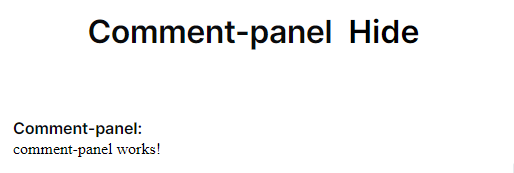
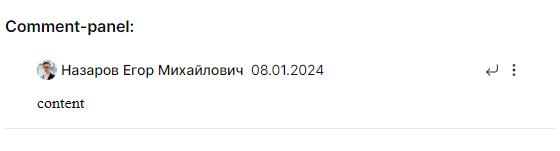
add: comment-panel.comp structure, _btn props

diff --git a/src/styles/components/_button.scss b/src/styles/components/_button.scss
@@ -95,13 +95,13 @@ $text-selectors: '&, span';
 .btn {
 	@include btn;
 
-  &:disabled {
-    background-color: transparent;
-    cursor: not-allowed;
-    border: none;
+	&:disabled {
+		background-color: transparent;
+		cursor: not-allowed;
+		border: none;
 
-    @include btn-color(var(--bti-quaternary));
-  }
+		@include btn-color(var(--bti-quaternary));
+	}
 	--btn-xl-icon-size: 20px;
 	--btn-l-icon-size: 20px;
 	--btn-m-icon-size: 20px;
@@ -110,17 +110,17 @@ $text-selectors: '&, span';
 	&_filled-primary {
 		background: var(--mc-default);
 		font-weight: var(--fw-medium);
-    @include btn-color(var(--wti-primary));
+		@include btn-color(var(--wti-primary));
 
 		&:not(:disabled) {
-      &:hover {
-        background: var(--mc-hover);
-      }
+			&:hover {
+				background: var(--mc-hover);
+			}
 
-      &:active {
-        background: var(--mc-active);
-      }
-    }
+			&:active {
+				background: var(--mc-active);
+			}
+		}
 
 		&:disabled {
 			background: var(--wgr-tertiary);
@@ -130,17 +130,17 @@ $text-selectors: '&, span';
 	&_filled-accent {
 		background: var(--ac-default);
 		font-weight: var(--fw-medium);
-    @include btn-color(var(--wti-primary));
+		@include btn-color(var(--wti-primary));
 
 		&:not(:disabled) {
-      &:hover {
-        background: var(--ac-hover);
-      }
+			&:hover {
+				background: var(--ac-hover);
+			}
 
-      &:active {
-        background: var(--ac-active);
-      }
-    }
+			&:active {
+				background: var(--ac-active);
+			}
+		}
 
 		&:disabled {
 			background: var(--wgr-tertiary);
@@ -149,17 +149,17 @@ $text-selectors: '&, span';
 
 	&_filled-secondary {
 		background: var(--wgr-secondary);
-    @include btn-color(var(--bti-secondary));
+		@include btn-color(var(--bti-secondary));
 
 		&:not(:disabled) {
-      &:hover {
-        border: 1px solid var(--wgr-tertiary);
-        background: var(--wgr-secondary);
-      }
+			&:hover {
+				border: 1px solid var(--wgr-tertiary);
+				background: var(--wgr-secondary);
+			}
 
-      &:active {
-        background: var(--wgr-tertiary);
-      }
+			&:active {
+				background: var(--wgr-tertiary);
+			}
 		}
 
 		&:disabled {
@@ -169,17 +169,17 @@ $text-selectors: '&, span';
 
 	&_floating {
 		background: var(--wgr-primary);
-    @include btn-color(var(--bti-secondary));
+		@include btn-color(var(--bti-secondary));
 
 		&:not(:disabled) {
-      &:hover {
-        box-shadow: var(--custom-floating-shadow);
-      }
+			&:hover {
+				box-shadow: var(--custom-floating-shadow);
+			}
 
-      &:active {
-        background: var(--wgr-secondary);
-        box-shadow: var(--custom-floating-shadow);
-      }
+			&:active {
+				background: var(--wgr-secondary);
+				box-shadow: var(--custom-floating-shadow);
+			}
 		}
 
 		&:disabled {
@@ -191,17 +191,17 @@ $text-selectors: '&, span';
 	&_outline-primary {
 		background: var(--wgr-primary);
 		border: 1px solid var(--mc-default);
-    @include btn-color(var(--mc-default));
+		@include btn-color(var(--mc-default));
 
 		&:not(:disabled) {
-      &:hover {
-        background-color: var(--mc-quinary);
-      }
+			&:hover {
+				background-color: var(--mc-quinary);
+			}
 
-      &:active {
-        background: var(--mc-quaternary);
-      }
-    }
+			&:active {
+				background: var(--mc-quaternary);
+			}
+		}
 
 		&:disabled {
 			background: var(--wgr-tertiary);
@@ -212,17 +212,17 @@ $text-selectors: '&, span';
 		border: 1px solid var(--ac-default);
 		font-weight: var(--fw-medium);
 
-    @include btn-color(var(--ac-default));
+		@include btn-color(var(--ac-default));
 
 		&:not(:disabled) {
-      &:hover {
-        background-color: var(--ac-hover);
-      }
+			&:hover {
+				background-color: var(--ac-hover);
+			}
 
-      &:active {
-        background: var(--ac-active);
-      }
-    }
+			&:active {
+				background: var(--ac-active);
+			}
+		}
 
 		&:disabled {
 			background: var(--wgr-secondary);
@@ -235,43 +235,43 @@ $text-selectors: '&, span';
 		@include btn-color(var(--mc-default));
 
 		&:not(:disabled) {
-      &:hover {
-        @include btn-color(var(--mc-hover));
-      }
+			&:hover {
+				@include btn-color(var(--mc-hover));
+			}
 
-      &:active {
-        @include btn-color(var(--mc-active));
-      }
-    }
+			&:active {
+				@include btn-color(var(--mc-active));
+			}
+		}
 	}
 
 	&_ghost-secondary {
 		@include btn-color(var(--bti-secondary));
 
 		&:not(:disabled) {
-      &:hover {
-        @include btn-color(var(--bti-tertiary));
-      }
+			&:hover {
+				@include btn-color(var(--bti-tertiary));
+			}
 
-      &:active {
-        @include btn-color(var(--bti-primary));
-      }
-    }
+			&:active {
+				@include btn-color(var(--bti-primary));
+			}
+		}
 	}
 
-  &_ghost-alert {
-    @include btn-color(var(--alc-default));
+	&_ghost-alert {
+		@include btn-color(var(--alc-default));
 
-    &:not(:disabled) {
-      &:hover {
-        @include btn-color(var(--alc-hover));
-      }
+		&:not(:disabled) {
+			&:hover {
+				@include btn-color(var(--alc-hover));
+			}
 
-      &:active {
-        @include btn-color(var(--alc-active));
-      }
-    }
-  }
+			&:active {
+				@include btn-color(var(--alc-active));
+			}
+		}
+	}
 
 	&_xl {
 		@include text-l;
@@ -295,5 +295,9 @@ $text-selectors: '&, span';
 		@include text-s;
 		padding: 8px 12px;
 		@include btn-s;
+	}
+
+	&.btn_paddingOff {
+		padding: 0;
 	}
 }

diff --git a/src/app/shared/ui-kit/comment-panel/comment-panel.component.html b/src/app/shared/ui-kit/comment-panel/comment-panel.component.html
@@ -1,1 +1,36 @@
-<p>comment-panel works!</p>
+<div class="comment-panel flex flex_column">
+	<div *ngIf="showHead" class="header flex flex_column">
+		<div class="flex flex_align-center">
+			<div class="flex gap-4 flex_grow">
+				<ng-container *ngIf="showAvatar">
+					<mib-avatar
+						type="round"
+						[showArrow]="false"
+						[src]="getUserAvatar"
+						[showImage]="true"
+					></mib-avatar>
+				</ng-container>
+				<span class="text name text_m text_medium c-bti-primary">
+					{{ user?.Name ?? 'Отсутствует' }} 
+				</span>
+				<span class="text name text_m c-bti-primary">
+					{{ user?.Date | date : 'dd.MM.YYYY' }} 
+				</span>
+			</div>
+			<div *ngIf="showActions" class="flex gap-4">
+				<mib-button paddingOff="true" size="s" type="ghost-secondary">
+					<mib-icon
+						btn-icon
+						class="stroke"
+						name="fi_corner-down-left"
+					></mib-icon>
+				</mib-button>
+				<mib-button paddingOff="true" size="s" type="ghost-secondary">
+					<mib-icon class="stroke" btn-icon name="fi_more-vertical"></mib-icon>
+				</mib-button>
+			</div>
+		</div>
+		<mib-spacing type="xs2"></mib-spacing>
+	</div>
+	<div class="body flex flex_column">content</div>
+</div>

diff --git a/src/app/shared/ui-kit/comment-panel/comment-panel.component.ts b/src/app/shared/ui-kit/comment-panel/comment-panel.component.ts
@@ -1,10 +1,28 @@
-import { Component } from '@angular/core';
+import {Component, Input} from '@angular/core'
 
 @Component({
-  selector: 'mib-comment-panel',
-  templateUrl: './comment-panel.component.html',
-  styleUrls: ['./comment-panel.component.scss']
+	selector: 'mib-comment-panel',
+	templateUrl: './comment-panel.component.html',
+	styleUrls: ['./comment-panel.component.scss']
 })
 export class CommentPanelComponent {
+	@Input() textExtention: boolean = false
+	@Input() extracted: boolean = false
+	@Input() showActions: boolean = true
+	@Input() showText: boolean = true
+	@Input() showLink: boolean = true
+	@Input() showAttached: boolean = true
+	@Input() file: boolean = true
+	@Input() showTitle: boolean = true
+	@Input() showAvatar: boolean = true
+	@Input() showHead: boolean = true
 
+	Avatar = './assets/images/user-avatar.jpg'
+	user = {Name: 'Назаров Егор Михайлович', Date: '2024-01-08T09:03:06.693Z'}
+
+	get getUserAvatar() {
+		console.log('Avatar :>> ', this.Avatar)
+		console.log('user.Name :>> ', this.user.Name)
+		return this.Avatar
+	}
 }

diff --git a/src/app/shared/ui-kit/comment-panel/comment-panel.module.ts b/src/app/shared/ui-kit/comment-panel/comment-panel.module.ts
@@ -1,10 +1,14 @@
 import {NgModule} from '@angular/core'
 import {CommonModule} from '@angular/common'
 import {CommentPanelComponent} from './comment-panel.component'
+import {AvatarModule} from '../avatar/avatar.module'
+import {ButtonModule} from '../button/button.module'
+import {IconModule} from '../ref-icon/icon.module'
+import {SpacingModule} from '../spacing/spacing.module'
 
 @NgModule({
 	declarations: [CommentPanelComponent],
 	exports: [CommentPanelComponent],
-	imports: [CommonModule]
+	imports: [CommonModule, AvatarModule, ButtonModule, IconModule, SpacingModule]
 })
 export class CommentPanelModule {}

diff --git a/src/app/shared/ui-kit/button/button.component.ts b/src/app/shared/ui-kit/button/button.component.ts
@@ -7,7 +7,7 @@ import {
 	Input,
 	Output
 } from '@angular/core'
-import { ButtonSize, ButtonType } from './interfaces/button.interface'
+import {ButtonSize, ButtonType} from './interfaces/button.interface'
 
 @Component({
 	selector: 'mib-button',
@@ -20,6 +20,7 @@ export class ButtonComponent implements AfterViewInit, DoCheck {
 	@Input() rounded: boolean = false
 	@Input() loading: boolean = false
 	@Input() disabled: boolean = false
+	@Input() paddingOff: boolean = false
 	@Output() press: EventEmitter<any> = new EventEmitter<any>()
 
 	constructor(private cdr: ChangeDetectorRef) {}

diff --git a/src/styles/components/_comment-panel.scss b/src/styles/components/_comment-panel.scss
@@ -1,0 +1,16 @@
+@import 'src/styles/helpers/icon_tools';
+@import 'src/styles/typography.vars';
+
+.comment-panel {
+	display: flex;
+	padding: 16px 32px;
+	flex-direction: column;
+	align-items: flex-start;
+	border-bottom: 1px solid var(--Gradation-Tertiary, #e2e5e9);
+	& .header {
+		width: 100%;
+	}
+	mib-avatar {
+		@include icon-size(20px);
+	}
+}

diff --git a/src/app/shared/ui-kit/button/button.component.html b/src/app/shared/ui-kit/button/button.component.html
@@ -3,6 +3,7 @@
 	(click)="press.emit($event)"
 	class="btn flex flex_center flex_grow"
 	[class.btn_loading]="loading"
+	[class.btn_paddingOff]="paddingOff"
 	[ngClass]="'btn_' + size + ' btn_' + type"
 	[class.btn_left-iconly]="iconLeft.children.length > 0"
 	[class.btn_right-iconly]="iconRight.children.length > 0"

diff --git a/src/app/shared/services/icons.servcie.ts b/src/app/shared/services/icons.servcie.ts
@@ -43,7 +43,8 @@ export class IconsService {
 		'fi_download',
 		'fi_lock',
 		'logo_round',
-		'fi_calendar'
+		'fi_calendar',
+		'fi_corner-down-left'
 	]
 
 	public async initIcons(): Promise<void> {

diff --git a/src/styles/components/main.scss b/src/styles/components/main.scss
@@ -14,3 +14,4 @@
 @import './switch';
 @import './cash-panel';
 @import './modal';
+@import './comment-panel';
